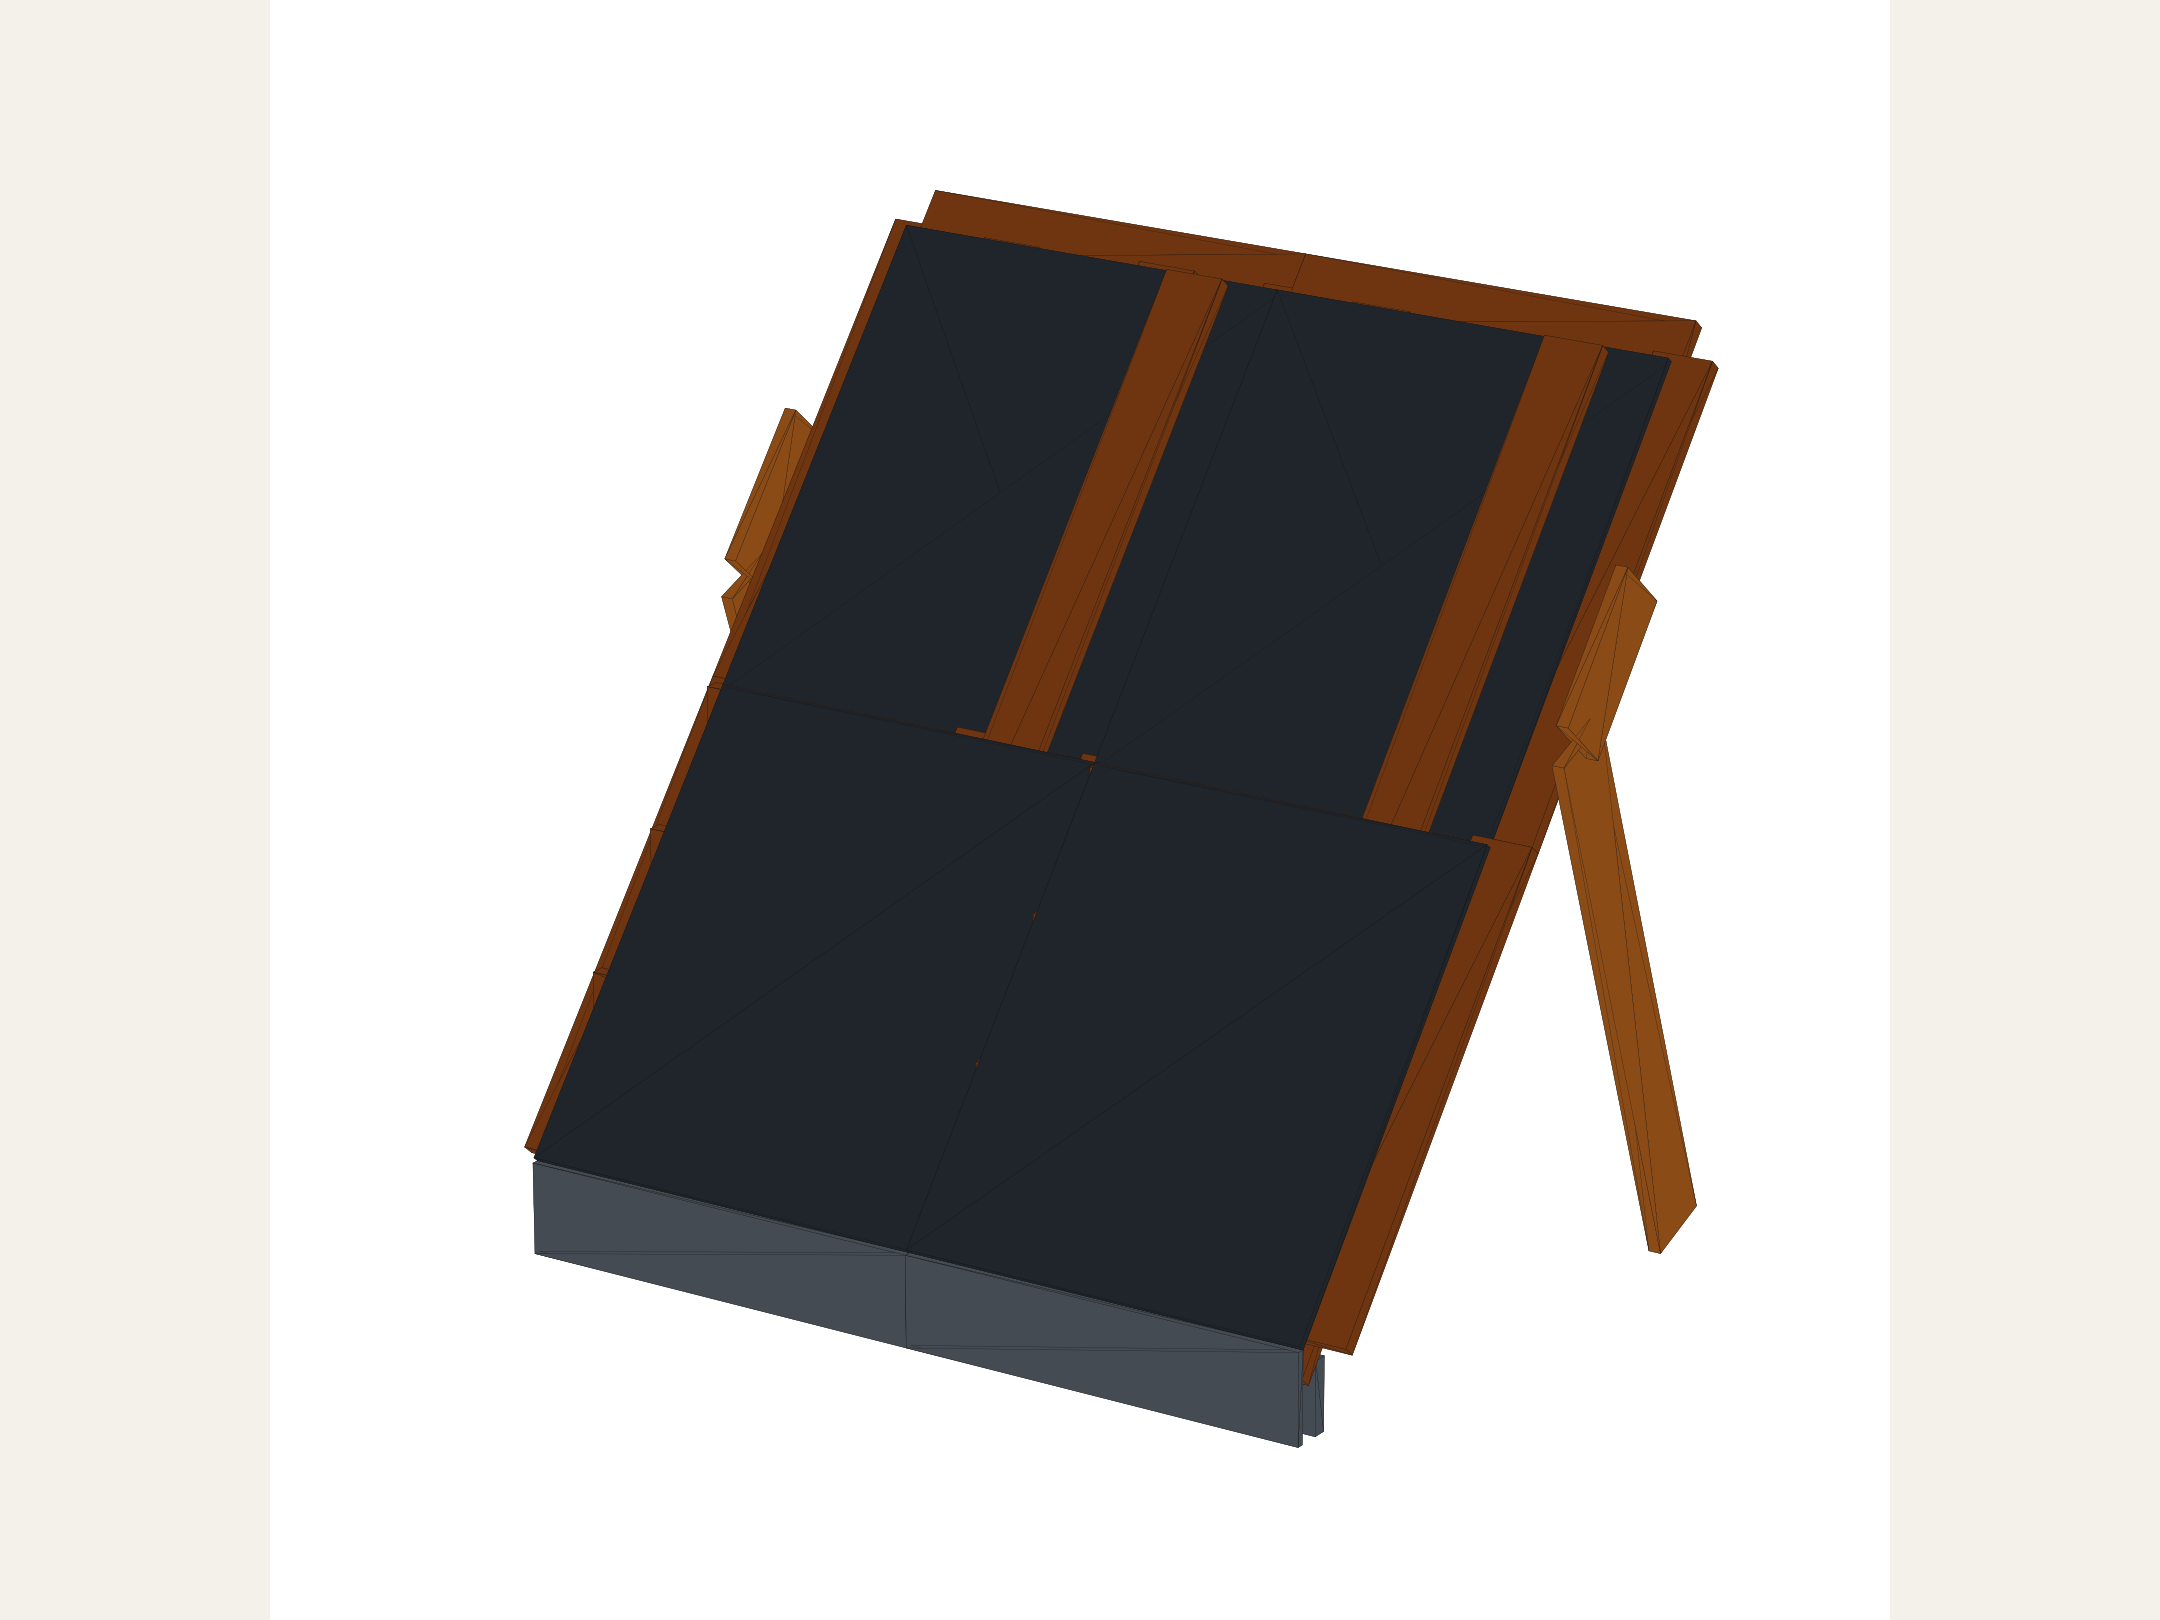
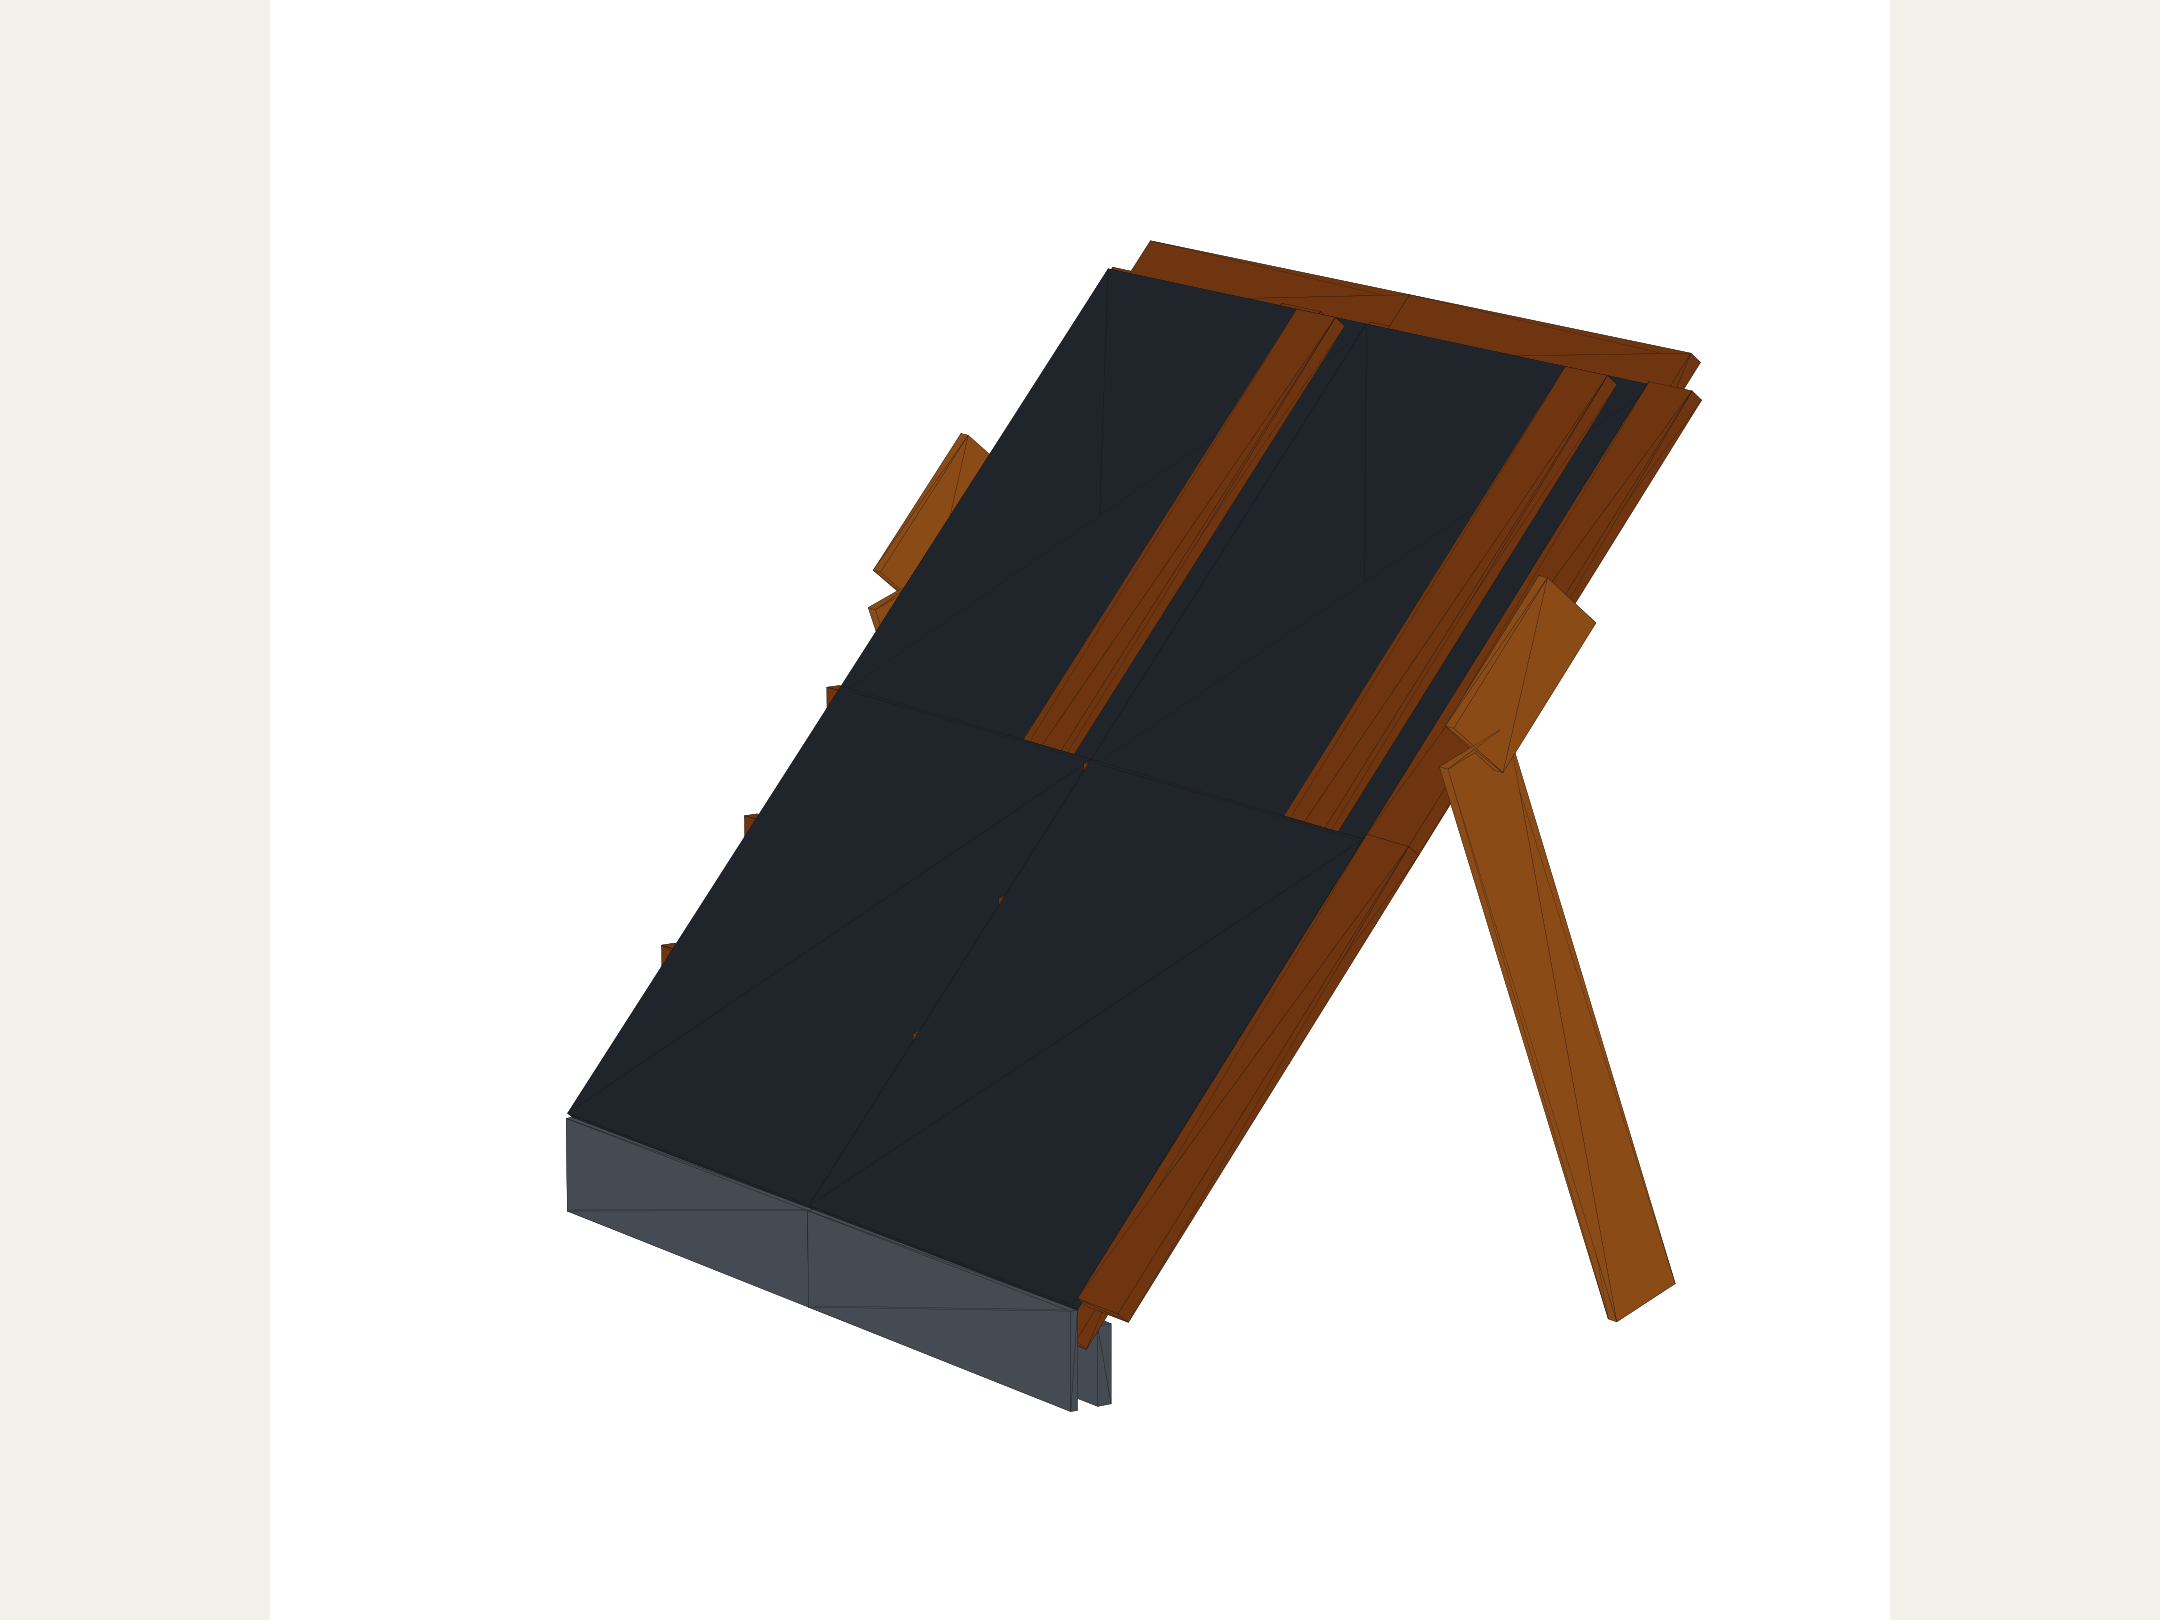
docs: face v1 CAD render toward climbing surface

Changed region(s): [[0.2481, 0.1235, 0.8065, 0.8951]]

diff --git a/mini_moonboard/export.py b/mini_moonboard/export.py
@@ -185,7 +185,9 @@ def export_v1_cad_render(output_dir: Path) -> Path:
         category = next((key for key in colors if child.name.startswith(key)), "face")
         axes.add_collection3d(Poly3DCollection(faces, facecolors=colors[category], edgecolors="#171717", linewidths=0.1))
     axes.set_box_aspect((2438.4, 1700, 2100))
-    axes.view_init(elev=19, azim=-57)
+    # Face the climbing surface from the front-right at a shallow elevation;
+    # rear rails and hockey-stick legs remain visible without obscuring it.
+    axes.view_init(elev=12, azim=-35)
     axes.set_axis_off()
     axes.set_xlim(-1500, 1500)
     axes.set_ylim(-100, 1700)
